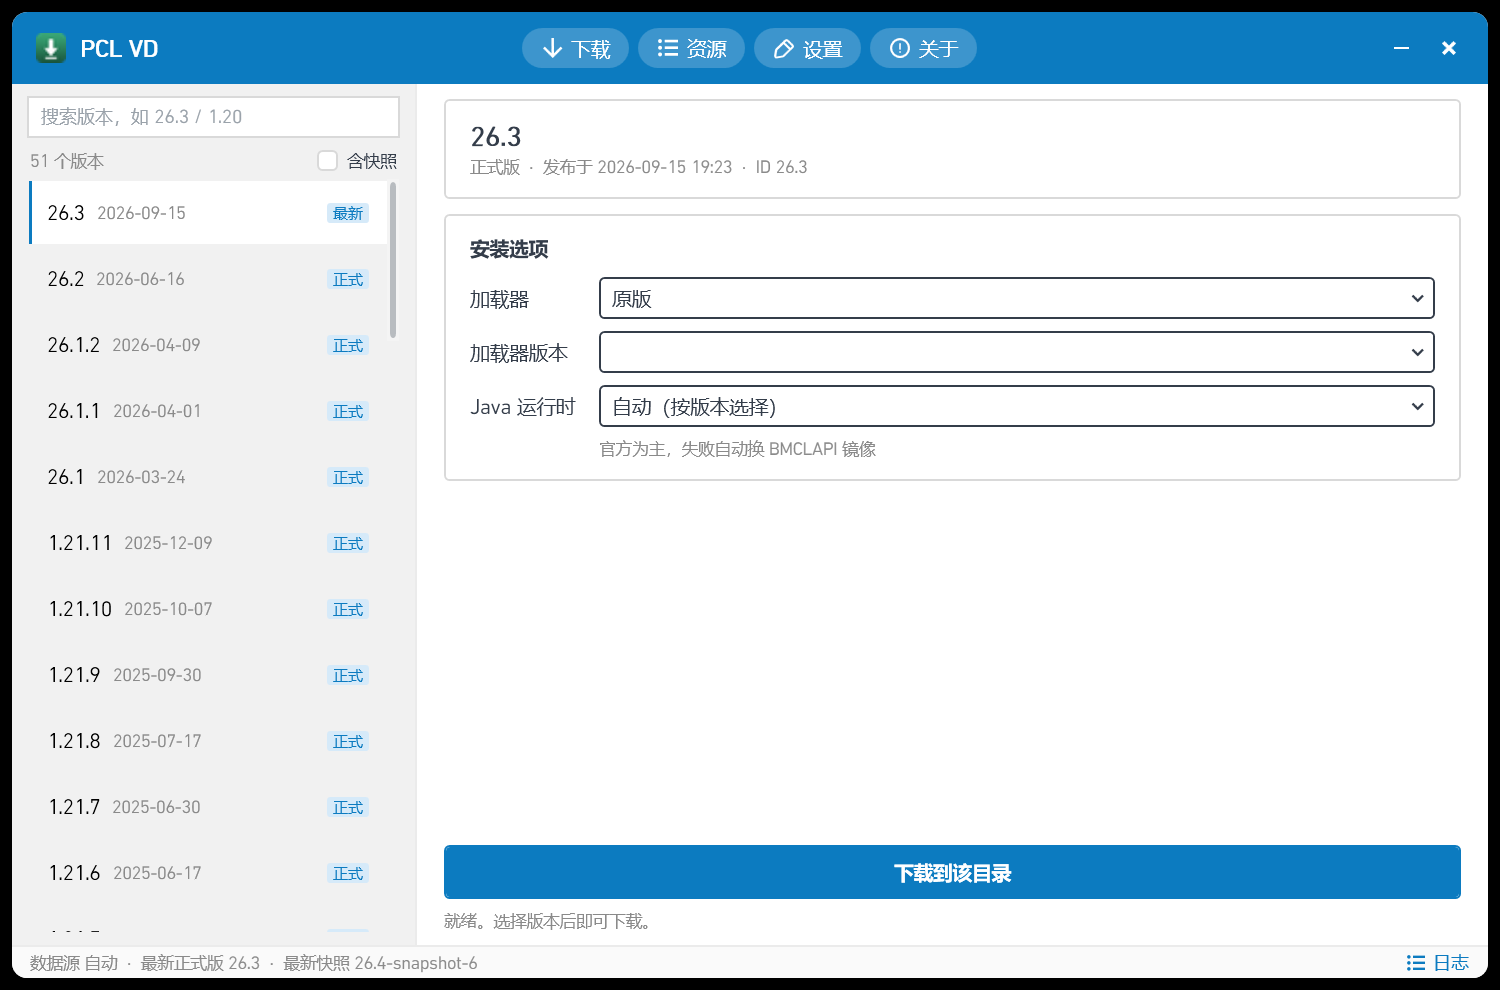
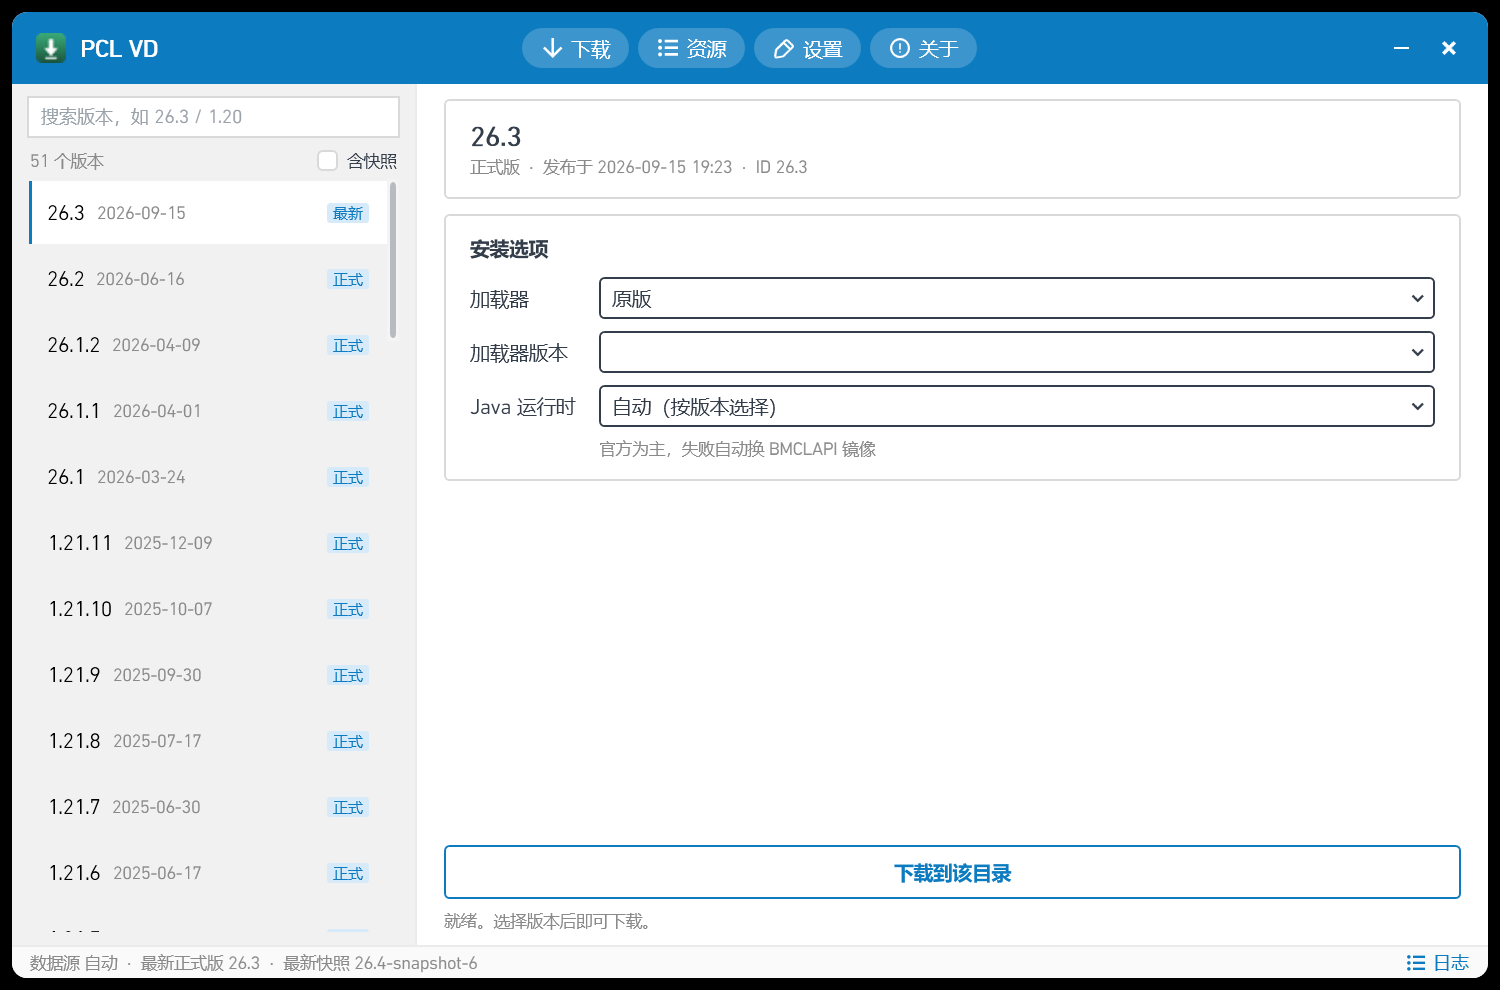
UI: 主按钮改为 PCL 描边款（蓝边蓝字白底）；清理下载页残留的数据源说明

Changed region(s): [[0.276, 0.8485, 0.9813, 0.9091]]

diff --git a/src/Mcdl.Wpf/App.xaml b/src/Mcdl.Wpf/App.xaml
@@ -99,33 +99,12 @@
     </Style>
 
     <!-- 主按钮 -->
+    <!-- 主按钮：同 MyButton 描边结构，颜色用主题蓝（Highlight） -->
     <Style x:Key="PrimaryButton" TargetType="Button" BasedOn="{StaticResource FlatButton}">
-      <Setter Property="Height" Value="32" />
-      <Setter Property="Foreground" Value="White" />
-      <Setter Property="FontWeight" Value="SemiBold" />
+      <Setter Property="Height" Value="36" />
+      <Setter Property="Foreground" Value="{StaticResource ColorBrush2}" />
       <Setter Property="Background" Value="{StaticResource ColorBrush2}" />
-      <Setter Property="BorderBrush" Value="{StaticResource ColorBrush2}" />
-      <Setter Property="Template">
-        <Setter.Value>
-          <ControlTemplate TargetType="Button">
-            <Border x:Name="Bd" Background="{TemplateBinding Background}"
-                    BorderBrush="{TemplateBinding BorderBrush}" BorderThickness="1"
-                    CornerRadius="3" SnapsToDevicePixels="True">
-              <ContentPresenter HorizontalAlignment="Center" VerticalAlignment="Center"
-                                Margin="{TemplateBinding Padding}" />
-            </Border>
-            <ControlTemplate.Triggers>
-              <Trigger Property="IsMouseOver" Value="True">
-                <Setter TargetName="Bd" Property="Background" Value="{StaticResource ColorBrush3}" />
-              </Trigger>
-              <Trigger Property="IsEnabled" Value="False">
-                <Setter TargetName="Bd" Property="Background" Value="#C9CDD2" />
-                <Setter TargetName="Bd" Property="BorderBrush" Value="#C9CDD2" />
-              </Trigger>
-            </ControlTemplate.Triggers>
-          </ControlTemplate>
-        </Setter.Value>
-      </Setter>
+      <Setter Property="FontWeight" Value="SemiBold" />
     </Style>
 
     <!-- 标题栏胶囊标签：高 27、圆角 13.5 -->

diff --git a/src/Mcdl.Wpf/MainWindow.xaml b/src/Mcdl.Wpf/MainWindow.xaml
@@ -198,8 +198,6 @@
                       <ComboBox Grid.Row="3" Grid.Column="1" ItemsSource="{Binding JavaOptions}"
                                 SelectedItem="{Binding SelectedJava, Mode=TwoWay}" />
 
-                      <TextBlock Grid.Row="4" Grid.Column="1" Text="{Binding SourceHint}"
-                                 Style="{StaticResource Muted}" TextWrapping="Wrap" Margin="0,8,0,0" />
                     </Grid>
                   </StackPanel>
                 </Border>
